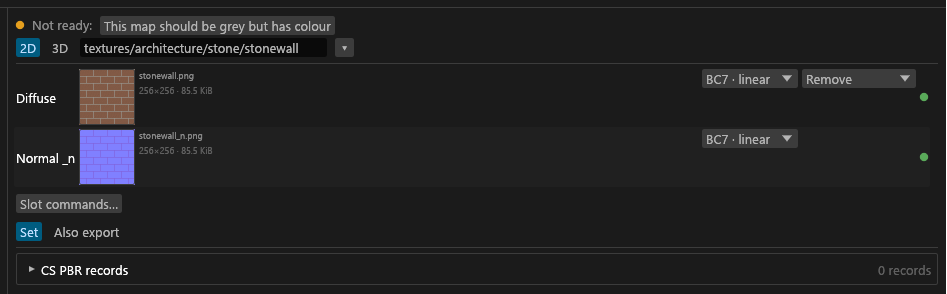
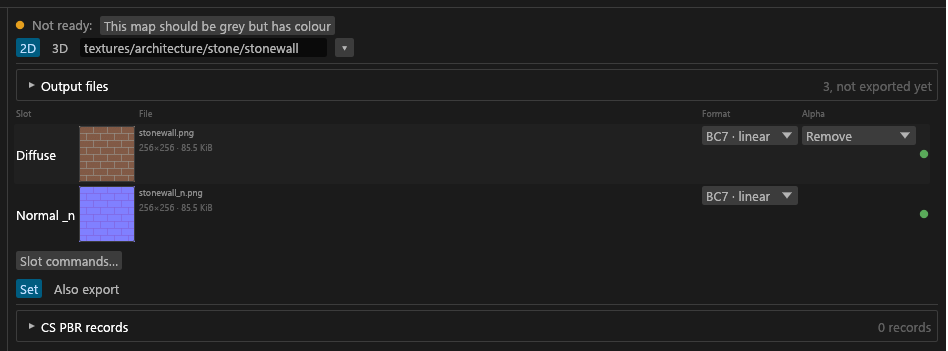
Docs: set editor links, output files, labels; Sets titles (review E plan 3b)

diff --git a/docs/wiki/GUI-Set-Editor.md b/docs/wiki/GUI-Set-Editor.md
@@ -4,7 +4,7 @@ For anyone filling a material set's slots, wiring packed channels, or pointing a
 
 ## The set editor
 
-Select a set and the centre column shows whether it is ready ([below](#is-the-set-ready)), its heading row (the input name box, [Bulk editing and renaming](GUI-Bulk-and-Rename.md#input-name-box); the **Match** box on a TruePBR set; **2D | 3D**, see [Previews](Previews.md)), then the slot rows, then two tabs. **Material** (**Set** on a set with no PGPatcher JSON) holds the PGPatcher settings ([PGPatcher settings and the JSON](GUI-PGPatcher-JSON.md#whats-on-the-material-tab)) or a material card ([Advanced skin](PBR-Landscape.md#advanced-skin), [PBR Landscape](PBR-Landscape.md)). **Also export** holds the Vanilla and CM export settings: [Also export tab](#also-export-tab).
+Select a set and the centre column shows whether it is ready ([below](#is-the-set-ready)), its heading row (the input name box, [Bulk editing and renaming](GUI-Bulk-and-Rename.md#input-name-box); the **Match** box on a TruePBR set; **2D | 3D**, see [Previews](Previews.md)), in 2D the [Output files](#output-files), then the slot rows, then two tabs. **Material** (**Set** on a set with no PGPatcher JSON) holds the PGPatcher settings ([PGPatcher settings and the JSON](GUI-PGPatcher-JSON.md#whats-on-the-material-tab)) or a material card ([Advanced skin](PBR-Landscape.md#advanced-skin), [PBR Landscape](PBR-Landscape.md)). **Also export** holds the Vanilla and CM export settings: [Also export tab](#also-export-tab).
 
 ![The set editor.](../img/gui/GUI-Set-Editor/set-editor.png)
 
@@ -23,19 +23,22 @@ Click a reason to go to its fix:
 - **Any other reason** opens Problems on the set's rows, scrolled to that row, with the keyboard on its fix or **Mark as intended**. A hidden kind shows again. <!-- D:JO7 -->
 - **"+k more in Problems"** opens Problems on the set's rows and shows the hidden kinds among them again. <!-- D:JO7 -->
 
+## Output files
+
+**Output files** lists the files this set writes. **Show in Explorer** appears once a file exists. <!-- D:JR3 --> Each line names the slot (or the file, for one that fills no slot, such as a complex `_m`) and the path under the export folder; hover it for the full path. A file a slot links from another set isn't listed: that set writes it. The group starts closed, with a count in its header such as "2 of 3 written", and the 3D view leaves it out. <!-- D:JR3 -->
+
 ## Slot rows
 
 One row per PGPatcher slot the set's shader uses, in slot order, at most 8. A filled slot the shader can't use stays, amber, with the reason on hover. The cubemap has no row: set it with a slot command.
+
+A heading line names the columns ("Slot", "File", "Format", "Alpha") while a row has a format dropdown. A format value cut short in a narrow window shows in full on hover. <!-- D:JR4 -->
 
 - Landscape sets add **Projected noise** and **Detail normal**. They aren't PGPatcher slots: [PBR Landscape](PBR-Landscape.md).
 - Slot 7 holds the set's `_cnr` or `_f`. With both, the row turns red, lists each with a ✕ to take one out, and export warns "_cnr and _f both use slot 7", because PGPatcher has one slot 7. A `_g` and an `_sk` on slot 3 clash the same way.
 - A `_coat` fills Subsurface, which then reads **Coat colour + strength**.
 - A complex `_m` has no row. Its **Enable parallax** box sits under the rows ([Texture settings](GUI-Texture-Panel.md#changing-a-setting)).
 
-Two controls sit at a row's right end:
-
-- **Match on this** (Diffuse, Normal) makes PGPatcher apply the entry to meshes with that exact texture in that slot ([Matching](GUI-PGPatcher-JSON.md#matching)).
-- The Diffuse row's alpha dropdown shows the texture's alpha type (**Remove**, **Cutout**, **Blend**, **Cutout + Blend**, **Data**: [Alpha](Texture-Types.md#alpha)). A pick writes `alpha.policy` as one undo step. **Confirm** sits beside it while the alpha is asked, and **↺** goes back to the inherited type once the texture has its own. <!-- D:JI5 -->
+**Match on this** (Diffuse, Normal) is the small link mark right of the Format dropdown; hover it for its name. It makes PGPatcher apply the entry to meshes with that exact texture in that slot ([Matching](GUI-PGPatcher-JSON.md#matching)). A linked slot has no mark: use **Matching** on the Material tab. <!-- D:JR1,JR4 -->
 
 Drop a file from Explorer on a row to fill it. It must be a texture of the open folder and fit the slot; files are never copied, and the row says why if it refuses. The **Shader** dropdown lists the Mode's shaders, **Auto** clears your pick, and how a shader is chosen is on [Set shaders](Set-Shaders.md#how-the-shader-is-picked).
 
@@ -46,16 +49,19 @@ Drop a file from Explorer on a row to fill it. It must be a texture of the open 
 
 Picking **Auto** or a shader outside the PBR family takes back what that pick wrote, unless you changed it since. A shader outside the PBR family, other than **Advanced Skin**, also gives a type Tessalith recorded while the set was PBR its plain counterpart (`diffuse`, `normal`, `glow`), so `sdc.exe` types those files the same way (the fuzz map is another matter: [Does the CLI use my GUI edits?](CLI-Reference.md#does-the-cli-use-my-gui-edits)). A file in a pinned slot keeps its type either way. <!-- D:JQ9,JQ16,JQ31,JQ54,JQ59 -->
 
+## Alpha
+
+The Diffuse row's alpha dropdown, under the "Alpha" heading, shows the texture's alpha type (**Remove**, **Cutout**, **Blend**, **Cutout + Blend**, **Data**: [Alpha](Texture-Types.md#alpha)). A pick writes `alpha.policy` as one undo step. **Confirm** sits beside it while the alpha is asked, and **↺** goes back to the inherited type once the texture has its own. <!-- D:JI5 -->
+
 ## Slot menus
 
-Right-click a slot row, or a member chip on a card.
+Right-click a slot row, or a member chip on a card. **Show in Explorer** there selects the source file.
 
-- **Clear**, **From this set** and **Path** are one undo step each. On a borrowed slot, From this set and Clear both drop the borrow. <!-- D:HC7 -->
-- **From another set** links the slot to a map of another set. It needs the same slot kind.
+- **Clear**, **From this set** and **Path** are one undo step each. On a borrowed slot, From this set and Clear both drop the borrow. <!-- D:HC7 --> **Clear** on a slot that has a file of the set leaves the file out of the JSON: the row reads "Left out of the JSON: you cleared this slot." and **Use this file** gives the slot back. <!-- D:JR1 -->
+- **From another set** links the slot to a map of another set. It needs the same slot kind. A slot linked from another set shows the file and the set it comes from; click the set to open it. **Unlink** removes the link. A path you typed with **Path** that no set of the project writes reads "set by path" instead. The link turns its feature on in the JSON as a file of the set's own would ([which](GUI-PGPatcher-JSON.md#your-textures-turn-features-on)). <!-- D:JR1 -->
 - On an Advanced skin set's empty **Skin wet** or **Skin detail** row, **Assign…** lists that kind of file from the set's own folder, if it's in no set or alone in a set of its own that you haven't changed. A file still waiting for a type is listed as *undecided* and is typed for the slot when you pick it. Pick a file to move it into the set, as one undo step. **From another set** borrows another set's map instead. These two slots have no Path. <!-- D:JD1 -->
-- **Pin this slot (always use this file)** keeps the slot's file as it is. A pinned slot refuses drags and slot commands, bulk edits skip it (*slot locked*), and automatic re-typing leaves it alone. Pinning the diffuse of an Advanced skin set has a side effect: [Texture types](Texture-Types.md#suffixes). The pin is saved in `sdc-project.toml`, never in the PGPatcher JSON.
+- **Pin this slot (always use this file)** keeps the slot's file as it is. A pinned slot refuses drags and slot commands, bulk edits skip it (*slot locked*), and automatic re-typing leaves it alone. Pinning the diffuse of an Advanced skin set has a side effect: [Texture types](Texture-Types.md#suffixes). The pin never goes into the PGPatcher JSON ([where it's saved](GUI-Sets-Column.md#where-set-edits-are-saved)).
 - **Keep the original texture** / **Let PGPatcher replace the texture** toggles the slot's PGPatcher lock (`lock_diffuse`, `lock_normal`, `lock_emissive`, `lock_parallax`, `lock_rmaos`, `lock_cnr`, `lock_subsurface`) on a set that writes a PGPatcher entry. PGPatcher then leaves the mesh's own texture in that slot. The file is still exported, and the card shows a padlock, *kept by PGPatcher*. A `slotN` command on the same slot wins ("slotN overrides the lock"). There is no cubemap lock, because `lock_cubemap` would clear the slot.
-- **Show in Explorer** selects the source file.
 
 **Slot commands…** on a row is the same list plus *Pin slot N*.
 
@@ -63,7 +69,9 @@ Right-click a slot row, or a member chip on a card.
 
 ## Packed channel sources
 
-Under a packed output (`_rmaos`, `_rfaos`, `_m`, `_p`), each channel has a **Source** picker: a helper or **Value**. Picking a helper adds the channel to that helper's `helper.fills` and takes it off the others, as one undo step ([Packing PBR maps](Texture-Packing.md#helper-textures)). **Value** uses the channel's `packing.fill.*` with a **Reset**; it is greyed when the channel's file feeds it by name. The engine still decides: a pick that can't fill the channel shows the helper as not used, with the reason.
+The set's shader and maps pick the packed map, `_rmaos` or `_rfaos`; the row's title shows which. A `packing.recipe` written in `sdc.toml` still wins; when the set can't build it or the shader doesn't read its map, its [Problems](GUI-Problems.md#rows-and-their-fixes) row offers **Clear recipe**. <!-- D:JR10 -->
+
+Under a packed output (`_rmaos`, `_rfaos`, `_m`, `_p`), each channel has a source picker: a helper or **Value**. A long file name is cut at the front, so you can still read its suffix, and the full name shows on hover. <!-- D:JR4 --> Picking a helper adds the channel to that helper's `helper.fills` and takes it off the others, as one undo step ([Packing PBR maps](Texture-Packing.md#helper-textures)). **Value** uses the channel's `packing.fill.*` with a **Reset**; it is greyed when the channel's file feeds it by name. The engine still decides: a pick that can't fill the channel shows the helper as not used, with the reason.
 
 ## Also export tab
 
@@ -77,7 +85,7 @@ The set editor's second tab holds the [Also export as Vanilla and CM](Set-Shader
 
 ## Shared helpers
 
-Under the slot rows, each helper the set shares ([Sets column](GUI-Sets-Column.md#moving-textures-between-sets)) has a row with its name, outlined amber like a borrowed slot. Click the row to open the helper; its panel lists every set that shares it under **Shared with**. A shared helper is offered in the **Source** pickers above. **✕** (**Stop sharing**) takes it out of this set only; the file stays where it is. If the file is deleted from disk, the share clears itself and Messages says so. <!-- D:HH7 -->
+Under the slot rows, each helper the set shares ([Sets column](GUI-Sets-Column.md#moving-textures-between-sets)) has a row with its name, outlined amber. Click the row to open the helper; its panel lists every set that shares it under **Shared with**. A shared helper is offered in the channel source pickers above. **✕** (**Stop sharing**) takes it out of this set only; the file stays where it is. If the file is deleted from disk, the share clears itself and Messages says so. <!-- D:HH7 -->
 
 ## Mapping to a target
 

diff --git a/docs/wiki/GUI-Sets-Column.md b/docs/wiki/GUI-Sets-Column.md
@@ -4,15 +4,15 @@ For anyone grouping textures into material sets: reading a set card, finding a s
 
 ## Reading a set card
 
-One card per material set. A status pill shows what the set is ("vanilla", "PBR → JSON", "PBR, no JSON" for a PBR set on a target that writes none, "PBR Landscape", "skin"), with a red dot when it blocks export, amber when it isn't ready and green when it is. A set is ready when neither it nor its textures has a problem row; notes, rows you marked as intended and checks don't count ([Problems and Notes](GUI-Problems.md#problems-and-notes)). <!-- D:JO5 --> A set you created that has no file yet is amber too, and its hover says so. Hover the pill for what the set writes and the state of each packed output. **⚠ n** opens the set's problems, and the shader combo sits on its own row. Click empty card area to open the set.
+One card per material set. Its title is the set's id. When the id doesn't fit, part of it is cut (`…/stone/banner` for `architecture/stone/banner`), but the title keeps at least the id's last two parts, more when two sets would read the same. A title that doesn't fit beside the status pill takes its own line. <!-- D:JR2,JR5 --> A status pill shows what the set is ("vanilla", "PBR → JSON", "PBR, no JSON" for a PBR set on a target that writes none, "PBR Landscape", "skin"), with a red dot when it blocks export, amber when it isn't ready and green when it is. A set is ready when neither it nor its textures has a problem row; notes, rows you marked as intended and checks don't count ([Problems and Notes](GUI-Problems.md#problems-and-notes)). <!-- D:JO5 --> A set you created that has no file yet is amber too, and its hover says so. Hover the pill for what the set writes and the state of each packed output. **⚠ n** opens the set's problems, and the shader combo sits on its own row. Click empty card area to open the set.
 
-Under it is one chip per slot of the shader, lettered by the slot's suffix. On an Advanced skin set the RMAOS chip reads RFAOS, and the letter sits bottom-left on every chip. <!-- D:HE1 --> A small thumbnail on a chip's corner is a [helper](Texture-Packing.md#helper-textures) feeding that slot. An amber outline marks a slot borrowed from another set, and a red **?** a borrow whose set is gone or a file that is gone. A slot shared from a set that shares it in turn reads the set that has the file; a loop of shares fills nothing and shows the **?**. <!-- D:JN1 --> Delete that middle set, or **Clear** its share, and the far set keeps the texture: its share passes on to the set the middle one shared from. <!-- D:JN4 --> Right-click a **?** for **Remove from set** (or **Delete set** when nothing is left); each one is also a Problems row.
+Under it is one chip per slot of the shader, lettered by the slot's suffix. On an Advanced skin set the RMAOS chip reads RFAOS, and the letter sits bottom-left on every chip. <!-- D:HE1 --> A small thumbnail on a chip's corner is a [helper](Texture-Packing.md#helper-textures) feeding that slot. A slot linked from another set ([From another set](GUI-Set-Editor.md#slot-menus)) has a small link mark at the top centre of its chip; hover the chip for the linked path. A slot you cleared shows its letter dimmed. <!-- D:JR1 --> An amber outline marks a slot borrowed from another set, and a red **?** a borrow whose set is gone or a file that is gone. A slot shared from a set that shares it in turn reads the set that has the file; a loop of shares fills nothing and shows the **?**. <!-- D:JN1 --> Delete that middle set, or **Clear** its share, and the far set keeps the texture: its share passes on to the set the middle one shared from. <!-- D:JN4 --> Right-click a **?** for **Remove from set** (or **Delete set** when nothing is left); each one is also a Problems row.
 
 A set whose files are all DDS inputs Tessalith doesn't re-encode, such as a released mod's, is listed as "vanilla" with empty slots and no JSON entry. **Re-encode this file** on its diffuse makes it a full set.
 
 ![A set card's right-click menu.](../img/gui/GUI-Sets-Column/set-card-menu.png)
 
-The card's right-click menu holds **Export set** ([Exporting part of the project](GUI-Review-and-Export.md#exporting-part-of-the-project); with two or more sets selected it reads **Export n sets**), **Rename**, **Edit match…** ([PGPatcher settings and the JSON](GUI-PGPatcher-JSON.md#matching)), **Remove member**, **Delete set**, **Move to group** ([Groups](#groups)), **Move up**, **Move down**, **Move to…**, and **Map to target…** (**Change mapping…** once mapped; [Set editor](GUI-Set-Editor.md#mapping-to-a-target)). Right-clicking a member that fills a slot opens that slot's menu instead: [Slot menus](GUI-Set-Editor.md#slot-menus). The **Rename** submenu is [Renaming](GUI-Bulk-and-Rename.md#renaming).
+The card's right-click menu holds **Export set** ([Exporting part of the project](GUI-Review-and-Export.md#exporting-part-of-the-project); with two or more sets selected it reads **Export n sets**), **Rename**, **Edit match…** ([PGPatcher settings and the JSON](GUI-PGPatcher-JSON.md#matching)), **Remove member**, **Delete set**, **Move to group** ([Groups](#groups)), **Move up**, **Move down**, **Move to…**, and **Map to target…** ([Set editor](GUI-Set-Editor.md#mapping-to-a-target)). Right-clicking a member that fills a slot opens that slot's menu instead: [Slot menus](GUI-Set-Editor.md#slot-menus). The **Rename** submenu is [Renaming](GUI-Bulk-and-Rename.md#renaming).
 
 ## Finding a set
 

diff --git a/docs/wiki/GUI-Problems.md b/docs/wiki/GUI-Problems.md
@@ -45,7 +45,8 @@ A row you must act on has its fix as a button.
 | A note about a change Tessalith made for you | **Undo this change** while that step is still the last one. While it has the button the note stays in the list, after the problems. <!-- D:FC3,JO3 --> |
 | `CHAN-NORMAL-LENGTH`, a short normal | **Rebuild Z**, which sets the file's `channels.reconstruct_z`. On a file you already exported the row then reads *Rebuild Z is on for this file: export again to rewrite it*, a queued note with no button, until the next export. <!-- D:JO9 --> |
 | `CHK-Z-SIGN` (a check) | **Rebuild Z**, which clears the row. <!-- D:JO15 --> |
-| `SHADER-EXTRA-MAP`, a note: *{file} isn't read by the {shader} shader…* | **Remove from set** for that file, then **Change shader…**. The file leaves the set as **Remove member** does: [Textures in no set](GUI-Sets-Column.md#textures-in-no-set). <!-- D:JO15 --> |
+| `SHADER-EXTRA-MAP`, a note: *{file} isn't read by the {shader} shader…* | **Remove from set** for that file, then **Change shader…**. The file leaves the set as **Remove member** does: [Textures in no set](GUI-Sets-Column.md#textures-in-no-set). For the set's packed output (`_rmaos`, `_rfaos`) there is no **Remove from set**: **Clear recipe**, then **Change shader…**, when a `packing.recipe` is written; otherwise **Change shader…** alone. <!-- D:JO15,JR10 --> |
+| `PACK-RECIPE-CONFLICT`, `PACK-RECIPE-UNBUILDABLE` | **Clear recipe** removes a `packing.recipe` the set can't build, or one its `_rmaos` and `_rfaos` entries disagree on, as one undo step, so the shader and the maps decide again. It shows only when the recipe is written on those entries in `sdc.toml`; a recipe from a preset or the project gets no button. <!-- D:JR10 --> |
 | `SHADER-MISSING-MAP`, `SHADER-UNAVAILABLE` | **Change shader…**, a menu of the shaders the set's shader combo offers. <!-- D:JO15 --> |
 | `SHADER-NORMAL-SPECULAR`, a note: *{file} is a vanilla normal…* (a PBR set's own normal) | **Use PBR normal**, which writes `subtype = "pbr_normal"`: the alpha is dropped and any `_rmaos` in the set bakes from it. Off on a locked slot or a read-only `sdc.toml`. A DDS kept as it is gets no button and reads *{file} is a kept DDS…*: it is not converted again, so its type can't drop the alpha. A DDS set to be encoded again (`reencode = true`) gets the button. <!-- D:JP3 --> |
 | *The file name and the contents point to different types* | **Set type…**, the type picker. <!-- D:JO15 --> |
@@ -61,7 +62,7 @@ A row you must act on has its fix as a button.
 | *Preset {id} was skipped: it clashes with {other} on aliases* | **Remove aliases from {id}**: [Presets and targets](Presets-and-Targets.md#checking-and-installing). |
 | *{n} saved settings name no file in this mode ({mode})* (grey, on Project; hover lists them) | **Entries ▾** lists each `[files]` entry with its own **Remove**; **Remove all** deletes every one as one undo step. [Before you remove one](#unmatched-files-entries). <!-- D:JI6 --> |
 
-**Remove from set**, **Delete set**, **Remove match**, **Turn off {feature}**, **Turn parallax off**, **Clear read-only flag** and **Remove aliases from {id}** run on a mouse click only. Enter and Space do nothing on them, so a key press never takes a file out of a set or switches a feature off. <!-- D:JO16 -->
+**Remove from set**, **Delete set**, **Remove match**, **Turn off {feature}**, **Turn parallax off**, **Clear read-only flag**, **Clear recipe** and **Remove aliases from {id}** run on a mouse click only. Enter and Space do nothing on them, so a key press never takes a file out of a set or switches a feature off. <!-- D:JO16 -->
 
 ### Mark as intended
 

diff --git a/docs/wiki/GUI-PGPatcher-JSON.md b/docs/wiki/GUI-PGPatcher-JSON.md
@@ -23,7 +23,7 @@ This page is for mod authors making a PBR mod that PGPatcher patches: how to set
 | CS PBR records | Community Shaders' records ([PBR Landscape](PBR-Landscape.md#cs-pbr-records)). |
 | Advanced TruePBR settings | Path contains, Mesh path contains, [Rename](#rename), UV and cubemap, vertex colours and depth, texture locks. |
 
-Each group's header shows its state, like "Standard", "on", "2 matches" or an amber "matches nothing". Hover a plain-named key ("SSS width") to see its JSON key.
+A feature's state shows once. Coat, Emissive, Glint and Fuzz have no on or off in their header: the **Features** tick says it. Subsurface shows its mode, like "Standard", in its header while the group is closed. A feature that is on but blocked reads in amber, like "on, blocked by hair". Matching shows its count, like "2 matches", or an amber "matches nothing". <!-- D:JR6 --> Hover a plain-named key ("SSS width") to see its JSON key.
 
 ## Your textures turn features on
 
@@ -39,6 +39,8 @@ You rarely tick features by hand. Tessalith reads the set's files:
 
 These read "(auto)", with the reason on hover, and go into the JSON. Untick one to store an explicit off, which wins over the file; ↺ removes your choice again. Remove the texture and its auto value goes with it.
 
+A slot linked from another set counts as that kind of file; a path you typed counts only when another set writes it. <!-- D:JR8 --> A slot you cleared counts as empty, even when the set has a file for it. <!-- D:JR9 -->
+
 ## Features that can't go together
 
 These are greyed out, with the reason on hover. A switch that's already on stays clickable so you can turn it off.
@@ -51,7 +53,7 @@ A feature that's on without its texture blocks export, so add the texture or tur
 
 ## Values you turned off are kept
 
-Turn Coat, Emissive, Glint or Fuzz off and its values stay. The group reads "off" and "kept, not used", and you can still edit or reset them. They aren't written to the JSON until you turn the feature back on. Displacement scale works the same way with Parallax.
+Turn Coat, Emissive, Glint or Fuzz off and its values stay. The group stays and reads "kept, not used", and you can still edit or reset them. They aren't written to the JSON until you turn the feature back on. Displacement scale works the same way with Parallax.
 
 ## Numbers and colours
 
